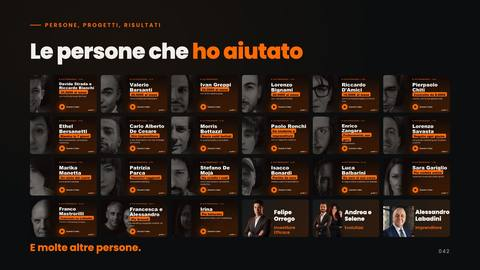
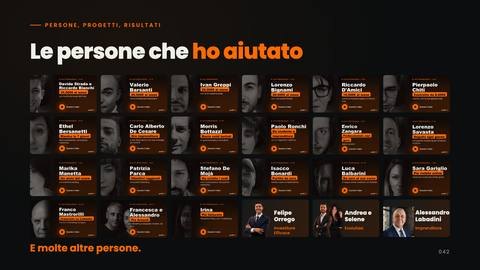
Regia slide: foto nuova di Felipe Orrego (slide 42, 52, 93) e anteprime aggiornate

diff --git a/regia-e07cyn87/slide.html b/regia-e07cyn87/slide.html
@@ -212,7 +212,7 @@ body.nocursor{cursor:none}
 <section class="s " id="s39"><div class="tag">2021 · Consulente High Ticket</div><div class="head"><h2 style="font-size:84px">Ho ricominciato<br><span class="o">costruendo un’azienda mia.</span></h2></div><img src="img/logo-consulente-high-ticket.webp" style="position:absolute;left:120px;top:405px;width:320px;height:auto"><div class="col" style="left:120px;top:560px;width:900px"><div class="stat" style="font-size:215px">500K€</div><div class="lead strong" style="font-size:42px">nei primi sei mesi</div></div><div class="col" style="left:1110px;top:465px;width:670px"><div class="stat" style="font-size:195px">400+</div><div class="lead strong" style="font-size:42px">clienti seguiti</div><div class="lead" style="font-size:34px;margin-top:35px">Coach, consulenti e professionisti.<br>Dalle ore vendute<br>ai pacchetti ad alto valore.</div></div><div class="pg">039</div></section>
 <section class="s " id="s40"><div class="tag">Quello che ho portato nel mercato</div><div class="head"><h2 style="font-size:83px">Modelli che oggi riconosci.<br><span class="o">Un lavoro iniziato prima di CHT.</span></h2><div class="lead" style="font-size:36px">Dal setting al percorso del cliente, fino all’organizzazione commerciale.<br>Consulente High Ticket li porta dentro una metodologia B2B.</div></div><div class="steps" style="grid-template-columns:repeat(3,1fr)"><div class="card"><div class="n" style="font-size:120px">01</div><div class="t" style="font-size:40px">Appointment setting · dal 2018</div><i class="arrow"></i></div><div class="card"><div class="n" style="font-size:120px">02</div><div class="t" style="font-size:40px">Community funnel · 2021</div><i class="arrow"></i></div><div class="card hi"><div class="n" style="font-size:120px">03</div><div class="t" style="font-size:40px">CRM e outreach strutturato</div></div></div><div class="pg">040</div></section>
 <section class="s " id="s41"><div class="tag">Formazione e aziende digitali</div><div class="head"><h2 style="font-size:76px">Progetti diversi.<br><span class="o">Lo stesso lavoro dentro il business.</span></h2></div><div style="position:absolute;left:120px;right:120px;top:385px;display:grid;grid-template-columns:repeat(5,1fr);gap:22px;z-index:2"><div style="height:170px;display:flex;flex-direction:column;align-items:center;justify-content:center;gap:16px;background:#101415;border:1px solid #263032;border-radius:22px;padding:20px"><img src="img/mono-king-seduction.webp" style="max-width:230px;max-height:80px;object-fit:contain"><div style="font-size:21px;color:#bdbdb6">King Seduction</div></div><div style="height:170px;display:flex;flex-direction:column;align-items:center;justify-content:center;gap:16px;background:#101415;border:1px solid #263032;border-radius:22px;padding:20px"><img src="img/mono-investitore-efficace.webp" style="max-width:230px;max-height:80px;object-fit:contain"><div style="font-size:21px;color:#bdbdb6">Investitore Efficace</div></div><div style="height:170px;display:flex;flex-direction:column;align-items:center;justify-content:center;gap:16px;background:#101415;border:1px solid #263032;border-radius:22px;padding:20px"><img src="img/mono-studente-felice.webp" style="max-width:230px;max-height:80px;object-fit:contain"><div style="font-size:21px;color:#bdbdb6">Studente Felice</div></div><div style="height:170px;display:flex;flex-direction:column;align-items:center;justify-content:center;gap:16px;background:#101415;border:1px solid #263032;border-radius:22px;padding:20px"><img src="img/mono-rqi.webp" style="max-width:230px;max-height:80px;object-fit:contain"><div style="font-size:21px;color:#bdbdb6">RQI.me</div></div><div style="height:170px;display:flex;flex-direction:column;align-items:center;justify-content:center;gap:16px;background:#101415;border:1px solid #263032;border-radius:22px;padding:20px"><img src="img/mono-fabio-bussacchini.webp" style="max-width:230px;max-height:80px;object-fit:contain"><div style="font-size:21px;color:#bdbdb6">Fabio Bussacchini</div></div><div style="height:170px;display:flex;flex-direction:column;align-items:center;justify-content:center;gap:16px;background:#101415;border:1px solid #263032;border-radius:22px;padding:20px"><img src="img/mono-cama.webp" style="max-width:230px;max-height:80px;object-fit:contain"><div style="font-size:21px;color:#bdbdb6">CAMA · Accademia Marketing Digitale</div></div><div style="height:170px;display:flex;flex-direction:column;align-items:center;justify-content:center;gap:16px;background:#101415;border:1px solid #263032;border-radius:22px;padding:20px"><img src="img/mono-sistemilegali.webp" style="max-width:230px;max-height:80px;object-fit:contain"><div style="font-size:21px;color:#bdbdb6">SistemiLegali</div></div><div style="height:170px;display:flex;flex-direction:column;align-items:center;justify-content:center;gap:16px;background:#101415;border:1px solid #263032;border-radius:22px;padding:20px"><img src="img/mono-protocollo-anticrisi.webp" style="max-width:230px;max-height:80px;object-fit:contain"><div style="font-size:21px;color:#bdbdb6">Protocollo Anticrisi</div></div><div style="height:170px;display:flex;flex-direction:column;align-items:center;justify-content:center;gap:16px;background:#101415;border:1px solid #263032;border-radius:22px;padding:20px"><img src="img/mono-playlover-academy.webp" style="max-width:230px;max-height:80px;object-fit:contain"><div style="font-size:21px;color:#bdbdb6">PlayLover Academy</div></div><div style="height:170px;display:flex;flex-direction:column;align-items:center;justify-content:center;gap:16px;background:#101415;border:1px solid #263032;border-radius:22px;padding:20px"><img src="img/mono-sos-relazioni.webp" style="max-width:230px;max-height:80px;object-fit:contain"><div style="font-size:21px;color:#bdbdb6">SOS Relazioni</div></div><div style="height:170px;display:flex;flex-direction:column;align-items:center;justify-content:center;gap:16px;background:#101415;border:1px solid #263032;border-radius:22px;padding:20px"><img src="img/mono-zendiet.webp" style="max-width:230px;max-height:80px;object-fit:contain"><div style="font-size:21px;color:#bdbdb6">Zendiet</div></div><div style="height:170px;display:flex;flex-direction:column;align-items:center;justify-content:center;gap:16px;background:#101415;border:1px solid #263032;border-radius:22px;padding:20px"><img src="img/mono-lorenzo-savasta.webp" style="max-width:230px;max-height:80px;object-fit:contain"><div style="font-size:21px;color:#bdbdb6">Lorenzo Savasta</div></div><div style="height:170px;display:flex;flex-direction:column;align-items:center;justify-content:center;gap:16px;background:#101415;border:1px solid #263032;border-radius:22px;padding:20px"><img src="img/mono-the-vision.webp" style="max-width:230px;max-height:80px;object-fit:contain"><div style="font-size:21px;color:#bdbdb6">The Vision Academy</div></div><div style="height:170px;display:flex;flex-direction:column;align-items:center;justify-content:center;gap:16px;background:#101415;border:1px solid #263032;border-radius:22px;padding:20px"><div style="font-size:31px;font-weight:800;color:#F0F0E9">Samuele Ferrari</div></div><div style="height:170px;display:flex;flex-direction:column;align-items:center;justify-content:center;gap:16px;background:#101415;border:1px solid #263032;border-radius:22px;padding:20px"><img src="img/mono-metodo-immobiliare.webp" style="max-width:230px;max-height:80px;object-fit:contain"><div style="font-size:21px;color:#bdbdb6">Metodo Immobiliare</div></div></div><div class="pg">041</div></section>
-<section class="s " id="s42"><div class="tag">Persone, progetti, risultati</div><div class="head"><h2 style="font-size:86px">Le persone che <span class="o">ho aiutato</span></h2></div><div style="position:absolute;left:120px;right:120px;top:300px;display:grid;grid-template-columns:repeat(6,1fr);gap:16px;z-index:2"><img src="img/testimonianze/n06.webp" style="width:100%;height:auto;aspect-ratio:16/9;object-fit:contain;border-radius:10px"><img src="img/testimonianze/n03.webp" style="width:100%;height:auto;aspect-ratio:16/9;object-fit:contain;border-radius:10px"><img src="img/testimonianze/n11.webp" style="width:100%;height:auto;aspect-ratio:16/9;object-fit:contain;border-radius:10px"><img src="img/testimonianze/n08.webp" style="width:100%;height:auto;aspect-ratio:16/9;object-fit:contain;border-radius:10px"><img src="img/testimonianze/n12.webp" style="width:100%;height:auto;aspect-ratio:16/9;object-fit:contain;border-radius:10px"><img src="img/testimonianze/n02.webp" style="width:100%;height:auto;aspect-ratio:16/9;object-fit:contain;border-radius:10px"><img src="img/testimonianze/n04.webp" style="width:100%;height:auto;aspect-ratio:16/9;object-fit:contain;border-radius:10px"><img src="img/testimonianze/n01.webp" style="width:100%;height:auto;aspect-ratio:16/9;object-fit:contain;border-radius:10px"><img src="img/testimonianze/n05.webp" style="width:100%;height:auto;aspect-ratio:16/9;object-fit:contain;border-radius:10px"><img src="img/testimonianze/n07.webp" style="width:100%;height:auto;aspect-ratio:16/9;object-fit:contain;border-radius:10px"><img src="img/testimonianze/n09.webp" style="width:100%;height:auto;aspect-ratio:16/9;object-fit:contain;border-radius:10px"><img src="img/testimonianze/n10.webp" style="width:100%;height:auto;aspect-ratio:16/9;object-fit:contain;border-radius:10px"><img src="img/testimonianze/n13.webp" style="width:100%;height:auto;aspect-ratio:16/9;object-fit:contain;border-radius:10px"><img src="img/testimonianze/n14.webp" style="width:100%;height:auto;aspect-ratio:16/9;object-fit:contain;border-radius:10px"><img src="img/testimonianze/n15.webp" style="width:100%;height:auto;aspect-ratio:16/9;object-fit:contain;border-radius:10px"><img src="img/testimonianze/n16.webp" style="width:100%;height:auto;aspect-ratio:16/9;object-fit:contain;border-radius:10px"><img src="img/testimonianze/y01.webp" style="width:100%;height:auto;aspect-ratio:16/9;object-fit:contain;border-radius:10px"><img src="img/testimonianze/y02.webp" style="width:100%;height:auto;aspect-ratio:16/9;object-fit:contain;border-radius:10px"><img src="img/testimonianze/y03.webp" style="width:100%;height:auto;aspect-ratio:16/9;object-fit:contain;border-radius:10px"><img src="img/testimonianze/y04.webp" style="width:100%;height:auto;aspect-ratio:16/9;object-fit:contain;border-radius:10px"><img src="img/testimonianze/y05.webp" style="width:100%;height:auto;aspect-ratio:16/9;object-fit:contain;border-radius:10px"><div style="aspect-ratio:16/9;position:relative;background:linear-gradient(120deg,#161a1b,#331b0d);border-radius:10px;overflow:hidden"><img src="img/felipe.webp" style="position:absolute;left:0;bottom:0;width:46%;height:100%;object-fit:contain;object-position:bottom"><div style="position:absolute;left:48%;right:5%;top:25%;font-size:23px;line-height:1.15;font-weight:800">Felipe Orrego<div style="font-size:16px;font-weight:500;color:#FF6A00;margin-top:14px">Investitore Efficace</div></div></div><div style="aspect-ratio:16/9;position:relative;background:linear-gradient(120deg,#161a1b,#331b0d);border-radius:10px;overflow:hidden"><img src="img/caso-evolutiaa.webp" style="position:absolute;left:0;bottom:0;width:46%;height:100%;object-fit:contain;object-position:bottom"><div style="position:absolute;left:48%;right:5%;top:25%;font-size:23px;line-height:1.15;font-weight:800">Andrea e Selene<div style="font-size:16px;font-weight:500;color:#FF6A00;margin-top:14px">Evolutiaa</div></div></div><div style="aspect-ratio:16/9;position:relative;background:linear-gradient(120deg,#161a1b,#331b0d);border-radius:10px;overflow:hidden"><img src="img/guest-labadini.webp" style="position:absolute;left:0;bottom:0;width:46%;height:100%;object-fit:contain;object-position:bottom"><div style="position:absolute;left:48%;right:5%;top:25%;font-size:23px;line-height:1.15;font-weight:800">Alessandro Labadini<div style="font-size:16px;font-weight:500;color:#FF6A00;margin-top:14px">Imprenditore</div></div></div></div><div style="position:absolute;left:120px;top:960px;font-size:40px;font-weight:700;color:#FF6A00;z-index:2">E molte altre persone.</div><div class="pg">042</div></section>
+<section class="s " id="s42"><div class="tag">Persone, progetti, risultati</div><div class="head"><h2 style="font-size:86px">Le persone che <span class="o">ho aiutato</span></h2></div><div style="position:absolute;left:120px;right:120px;top:300px;display:grid;grid-template-columns:repeat(6,1fr);gap:16px;z-index:2"><img src="img/testimonianze/n06.webp" style="width:100%;height:auto;aspect-ratio:16/9;object-fit:contain;border-radius:10px"><img src="img/testimonianze/n03.webp" style="width:100%;height:auto;aspect-ratio:16/9;object-fit:contain;border-radius:10px"><img src="img/testimonianze/n11.webp" style="width:100%;height:auto;aspect-ratio:16/9;object-fit:contain;border-radius:10px"><img src="img/testimonianze/n08.webp" style="width:100%;height:auto;aspect-ratio:16/9;object-fit:contain;border-radius:10px"><img src="img/testimonianze/n12.webp" style="width:100%;height:auto;aspect-ratio:16/9;object-fit:contain;border-radius:10px"><img src="img/testimonianze/n02.webp" style="width:100%;height:auto;aspect-ratio:16/9;object-fit:contain;border-radius:10px"><img src="img/testimonianze/n04.webp" style="width:100%;height:auto;aspect-ratio:16/9;object-fit:contain;border-radius:10px"><img src="img/testimonianze/n01.webp" style="width:100%;height:auto;aspect-ratio:16/9;object-fit:contain;border-radius:10px"><img src="img/testimonianze/n05.webp" style="width:100%;height:auto;aspect-ratio:16/9;object-fit:contain;border-radius:10px"><img src="img/testimonianze/n07.webp" style="width:100%;height:auto;aspect-ratio:16/9;object-fit:contain;border-radius:10px"><img src="img/testimonianze/n09.webp" style="width:100%;height:auto;aspect-ratio:16/9;object-fit:contain;border-radius:10px"><img src="img/testimonianze/n10.webp" style="width:100%;height:auto;aspect-ratio:16/9;object-fit:contain;border-radius:10px"><img src="img/testimonianze/n13.webp" style="width:100%;height:auto;aspect-ratio:16/9;object-fit:contain;border-radius:10px"><img src="img/testimonianze/n14.webp" style="width:100%;height:auto;aspect-ratio:16/9;object-fit:contain;border-radius:10px"><img src="img/testimonianze/n15.webp" style="width:100%;height:auto;aspect-ratio:16/9;object-fit:contain;border-radius:10px"><img src="img/testimonianze/n16.webp" style="width:100%;height:auto;aspect-ratio:16/9;object-fit:contain;border-radius:10px"><img src="img/testimonianze/y01.webp" style="width:100%;height:auto;aspect-ratio:16/9;object-fit:contain;border-radius:10px"><img src="img/testimonianze/y02.webp" style="width:100%;height:auto;aspect-ratio:16/9;object-fit:contain;border-radius:10px"><img src="img/testimonianze/y03.webp" style="width:100%;height:auto;aspect-ratio:16/9;object-fit:contain;border-radius:10px"><img src="img/testimonianze/y04.webp" style="width:100%;height:auto;aspect-ratio:16/9;object-fit:contain;border-radius:10px"><img src="img/testimonianze/y05.webp" style="width:100%;height:auto;aspect-ratio:16/9;object-fit:contain;border-radius:10px"><div style="aspect-ratio:16/9;position:relative;background:linear-gradient(120deg,#161a1b,#331b0d);border-radius:10px;overflow:hidden"><img src="img/felipe-nuova.webp" style="position:absolute;left:0;bottom:0;width:46%;height:100%;object-fit:contain;object-position:bottom"><div style="position:absolute;left:48%;right:5%;top:25%;font-size:23px;line-height:1.15;font-weight:800">Felipe Orrego<div style="font-size:16px;font-weight:500;color:#FF6A00;margin-top:14px">Investitore Efficace</div></div></div><div style="aspect-ratio:16/9;position:relative;background:linear-gradient(120deg,#161a1b,#331b0d);border-radius:10px;overflow:hidden"><img src="img/caso-evolutiaa.webp" style="position:absolute;left:0;bottom:0;width:46%;height:100%;object-fit:contain;object-position:bottom"><div style="position:absolute;left:48%;right:5%;top:25%;font-size:23px;line-height:1.15;font-weight:800">Andrea e Selene<div style="font-size:16px;font-weight:500;color:#FF6A00;margin-top:14px">Evolutiaa</div></div></div><div style="aspect-ratio:16/9;position:relative;background:linear-gradient(120deg,#161a1b,#331b0d);border-radius:10px;overflow:hidden"><img src="img/guest-labadini.webp" style="position:absolute;left:0;bottom:0;width:46%;height:100%;object-fit:contain;object-position:bottom"><div style="position:absolute;left:48%;right:5%;top:25%;font-size:23px;line-height:1.15;font-weight:800">Alessandro Labadini<div style="font-size:16px;font-weight:500;color:#FF6A00;margin-top:14px">Imprenditore</div></div></div></div><div style="position:absolute;left:120px;top:960px;font-size:40px;font-weight:700;color:#FF6A00;z-index:2">E molte altre persone.</div><div class="pg">042</div></section>
 <section class="s " id="s43"><div class="ph full" style="background-image:url(img/andrea-ricaduta-ai.png)"></div><div class="shade-l"></div><div class="tag">Un’altra ricaduta</div><div class="col" style="left:120px;top:270px;width:1000px"><h2 style="font-size:54px">Pensavo di aver costruito.<br><span class="o">Mi sono ritrovato a ricominciare.</span></h2><div class="lead" style="font-size:40px;line-height:1.4;margin-top:48px">Il socio aveva replicato il business che avevamo costruito insieme.</div></div><div class="lead" style="position:absolute;left:120px;top:975px;width:1680px;font-size:20px;margin:0;z-index:2">Ricostruzione illustrativa AI</div><div class="pg">043</div></section>
 <section class="s " id="s44"><div class="tag">La lezione di quella ricaduta</div><div class="head"><h2 style="font-size:84px">Ho capito che cosa<br><span class="o">dovevo proteggere.</span></h2><div class="lead" style="font-size:35px">Un business può essere copiato. La sua solidità va costruita anche dentro.</div></div><div class="steps" style="grid-template-columns:repeat(3,1fr)"><div class="card"><div class="n" style="font-size:120px">01</div><div class="t" style="font-size:40px">Know-how e asset</div><i class="arrow"></i></div><div class="card"><div class="n" style="font-size:120px">02</div><div class="t" style="font-size:40px">Team e responsabilità</div><i class="arrow"></i></div><div class="card hi"><div class="n" style="font-size:120px">03</div><div class="t" style="font-size:40px">Processi che restano</div></div></div><div class="pg">044</div></section>
 <section class="s " id="s45"><div class="head"><h2 style="font-size:76px">Il lavoro diventa esperienza condivisa</h2></div><div class="gal"><figure><img src="img/0537d1be59.png" style="height:583px;width:1037px"><figcaption>Evolutiaa Reborn / sul palco</figcaption></figure><figure><img src="img/afee76bb54.png" style="height:583px;width:583px"><figcaption>Formazione e confronto dal vivo</figcaption></figure></div><div class="pg">045</div></section>
@@ -226,7 +226,7 @@ body.nocursor{cursor:none}
 <section class="s " id="s49"><div class="tag">Digital Product Mastery</div><div class="head"><h2 style="font-size:84px">Nel 2023, un nuovo progetto.<br><span class="o">Con Mik Cosentino.</span></h2></div><div class="lead" style="position:absolute;left:120px;top:410px;width:1680px;font-size:39px;margin:0;z-index:2">Digital Product Mastery</div><div class="col" style="left:120px;top:490px;width:1020px"><div class="stat" style="font-size:245px">500K€+</div><div class="lead strong" style="font-size:42px">nei primi sei mesi</div></div><div class="lead" style="position:absolute;left:1260px;top:570px;width:550px;font-size:39px;margin:0;z-index:2">Monetizzare il mondo dell’AI.<br>Costruire e vendere<br>un’offerta sul mercato.</div><div class="pg">049</div></section>
 <section class="s " id="s50"><div class="tag">Il lavoro dietro le quinte</div><div class="head"><h2 style="font-size:84px">Investimenti. Trading.<br><span class="o">Immobiliare. Agenzie.</span></h2><div class="lead" style="font-size:35px">Offerta, acquisizione, vendita e organizzazione dentro aziende diverse.</div></div><div class="steps" style="grid-template-columns:repeat(3,1fr)"><div class="card"><div class="n" style="font-size:120px">01</div><div class="t" style="font-size:40px">Offerte e posizionamento</div><i class="arrow"></i></div><div class="card"><div class="n" style="font-size:120px">02</div><div class="t" style="font-size:40px">Acquisizione e vendita</div><i class="arrow"></i></div><div class="card hi"><div class="n" style="font-size:120px">03</div><div class="t" style="font-size:40px">Team e procedure</div></div></div><div class="lead" style="position:absolute;left:120px;top:930px;width:1680px;font-size:28px;margin:0;z-index:2">Founder, socio, COO, CMO e partner operativo: ruoli diversi nei diversi progetti.</div><div class="pg">050</div></section>
 <section class="s " id="s51"><div class="tag">Sales Valley</div><div class="head" style="right:auto;width:1070px"><h2 style="font-size:78px">Dalle lezioni imparate<br><span class="o">a una nuova azienda.</span></h2></div><div class="lead" style="position:absolute;left:120px;top:370px;width:1050px;font-size:32px;margin:0;z-index:2">Hiring di sales e setter per il mercato B2B.</div><div class="stat" style="position:absolute;left:120px;top:470px;width:1050px;font-size:230px;margin:0;z-index:2">100+</div><div class="lead strong" style="position:absolute;left:120px;top:705px;width:1050px;font-size:44px;margin:0;z-index:2">clienti B2B</div><div class="lead" style="position:absolute;left:120px;top:825px;width:1050px;font-size:28px;margin:0;z-index:2">Clienti corporate</div><div class="lead strong" style="position:absolute;left:120px;top:875px;width:1050px;font-size:37px;margin:0;z-index:2">Verisure · Eolo<br>Union Energia</div><img src="img/25327b8593.png" style="position:absolute;right:35px;bottom:0;width:670px;height:900px;object-fit:contain;object-position:bottom;z-index:2"><div class="pg">051</div></section>
-<section class="s " id="s52"><div class="tag">Investitore Efficace · Felipe Orrego</div><div class="head" style="right:auto;width:1070px"><h2 style="font-size:78px">Da un’idea<br><span class="o">a un’azienda da 4 milioni.</span></h2></div><div class="lead" style="position:absolute;left:120px;top:370px;width:1050px;font-size:32px;margin:0;z-index:2">Sono entrato nel board di Investitore Efficace.</div><div class="stat" style="position:absolute;left:120px;top:470px;width:1050px;font-size:230px;margin:0;z-index:2">≈4M€</div><div class="lead strong" style="position:absolute;left:120px;top:715px;width:1050px;font-size:39px;margin:0;z-index:2">fatturato dell’azienda nel 2025</div><div class="lead" style="position:absolute;left:120px;top:865px;width:1050px;font-size:31px;margin:0;z-index:2">Brand e community funnel. Acquisizione e vendita.<br>Procedure e organizzazione.</div><img src="img/69e697662e.png" style="position:absolute;right:35px;bottom:0;width:670px;height:900px;object-fit:contain;object-position:bottom;z-index:2"><div class="pg">052</div></section>
+<section class="s " id="s52"><div class="tag">Investitore Efficace · Felipe Orrego</div><div class="head" style="right:auto;width:1070px"><h2 style="font-size:78px">Da un’idea<br><span class="o">a un’azienda da 4 milioni.</span></h2></div><div class="lead" style="position:absolute;left:120px;top:370px;width:1050px;font-size:32px;margin:0;z-index:2">Sono entrato nel board di Investitore Efficace.</div><div class="stat" style="position:absolute;left:120px;top:470px;width:1050px;font-size:230px;margin:0;z-index:2">≈4M€</div><div class="lead strong" style="position:absolute;left:120px;top:715px;width:1050px;font-size:39px;margin:0;z-index:2">fatturato dell’azienda nel 2025</div><div class="lead" style="position:absolute;left:120px;top:865px;width:1050px;font-size:31px;margin:0;z-index:2">Brand e community funnel. Acquisizione e vendita.<br>Procedure e organizzazione.</div><img src="img/felipe-nuova.png" style="position:absolute;right:35px;bottom:0;width:670px;height:900px;object-fit:contain;object-position:bottom;z-index:2"><div class="pg">052</div></section>
 <section class="s " id="s53"><div class="tag">Evolutiaa · Finotti e Barletta</div><div class="head" style="right:auto;width:1070px"><h2 style="font-size:78px">La crescita diventa<br><span class="o">un’azienda strutturata.</span></h2></div><div class="stat" style="position:absolute;left:120px;top:450px;width:1120px;font-size:150px;margin:0;z-index:2">6K → 35K€+</div><div class="lead strong" style="position:absolute;left:120px;top:635px;width:1050px;font-size:39px;margin:0;z-index:2">di fatturato mensile, in tre mesi</div><div class="lead" style="position:absolute;left:120px;top:820px;width:1050px;font-size:42px;margin:0;z-index:2">Team. Procedure.<br>KPI e lanci.</div><img src="img/84859a0da2.png" style="position:absolute;right:35px;bottom:0;width:690px;height:900px;object-fit:contain;object-position:bottom;z-index:2"><div class="pg">053</div></section>
 <section class="s " id="s54"><div class="tag">ProfitOS · Il progetto di cui parliamo stasera</div><div class="head"><h2 style="font-size:84px">Con ProfitOS,<br><span class="o">la prima cavia sono stato io.</span></h2></div><div class="col" style="left:120px;top:410px;width:1680px"><div class="stat" style="font-size:270px">100K€+</div><div class="lead strong" style="font-size:46px">incassati in un mese</div></div><div class="pills" style="bottom:150px"><span>4 persone nel team</span><span>3 part-time</span></div><div class="pg">054</div></section>
 <section class="s " id="s55"><div class="tag">Perché ho fondato ProfitOS</div><div class="head"><h2 style="font-size:80px">Far crescere un’azienda.<br><span class="o">Partecipare al valore che costruisco.</span></h2><div class="lead" style="font-size:35px">Dalle esperienze operative a un modello orientato anche alle partecipazioni.</div></div><div class="steps" style="grid-template-columns:repeat(3,1fr)"><div class="card"><div class="n" style="font-size:120px">01</div><div class="t" style="font-size:40px">Contribuire alla crescita</div><i class="arrow"></i></div><div class="card"><div class="n" style="font-size:120px">02</div><div class="t" style="font-size:40px">Costruire un sistema</div><i class="arrow"></i></div><div class="card hi"><div class="n" style="font-size:120px">03</div><div class="t" style="font-size:40px">Valutare una partecipazione</div></div></div><div class="pg">055</div></section>
@@ -291,7 +291,7 @@ body.nocursor{cursor:none}
 <section class="s " id="s90"><div class="tag">L’ordine giusto</div><div class="head"><h2 style="font-size:84px">Prima la struttura.<br><span class="o">Poi la visibilità.</span></h2></div><div class="pyr" style="top:366px"><div class="lyr top" style="width:520px">Riconoscibilità</div><div class="lyr" style="width:750px">Processi</div><div class="lyr" style="width:980px">Acquisizione e vendita</div><div class="lyr" style="width:1210px">Offerta</div><div class="lyr" style="width:1440px">Domanda e capacità di consegna</div></div><div class="foot" style="text-align:center;left:0;right:0">Si costruisce dal basso: domanda e consegna, offerta, acquisizione e vendita, processi. Poi la riconoscibilità.</div><div class="pg">090</div></section>
 <section class="s " id="s91"><div class="tag">L’ordine giusto</div><div class="head"><h2 style="font-size:84px">La visibilità amplifica<br><span class="o">quello che c’è sotto.</span></h2></div><div class="pyr" style="top:366px"><div class="lyr top" style="width:520px">Personal brand</div><div class="lyr" style="width:750px">Processi</div><div class="lyr" style="width:980px">Acquisizione e vendita</div><div class="lyr" style="width:1210px">Offerta, margine e delivery</div><div class="lyr" style="width:1440px">Problema reale del cliente</div></div><div class="foot" style="text-align:center;left:0;right:0">La visibilità arriva sopra una struttura che regge.</div><div class="pg">091</div></section>
 <section class="s " id="s92"><div class="head"><h2 style="font-size:80px">Il contenuto non può<br><span class="o">risolvere ogni problema.</span></h2></div><div class="steps" style="grid-template-columns:repeat(4,1fr)"><div class="card"><div class="n" style="font-size:120px">01</div><div class="t" style="font-size:36px">Non ti scoprono<br>→ acquisizione</div><i class="arrow"></i></div><div class="card"><div class="n" style="font-size:120px">02</div><div class="t" style="font-size:36px">Non chiedono<br>→ passaggio</div><i class="arrow"></i></div><div class="card"><div class="n" style="font-size:120px">03</div><div class="t" style="font-size:36px">Non comprano<br>→ offerta/vendita</div><i class="arrow"></i></div><div class="card hi"><div class="n" style="font-size:120px">04</div><div class="t" style="font-size:36px">Non reggi<br>→ delivery</div></div></div><div class="pg">092</div></section>
-<section class="s " id="s93"><div class="tag">Ospite</div><div class="col" style="left:120px;width:1000px;top:170px"><h2 style="font-size:52px">Un’azienda prima di un personaggio</h2><div class="gname">Felipe Orrego</div><div class="grole">Investitore Efficace</div><div class="gpts"><div><b>01</b>Offerta e cliente</div><div><b>02</b>Acquisizione e vendita</div><div><b>03</b>Team e procedure</div></div></div><div class="glow" style="right:0"></div><img src="img/69e697662e.png" style="position:absolute;bottom:0;right:120px;height:900px;width:689px;z-index:1"><div class="why">Perché ora: un’azienda può crescere prima del personaggio.</div><div class="pg">093</div></section>
+<section class="s " id="s93"><div class="tag">Ospite</div><div class="col" style="left:120px;width:1000px;top:170px"><h2 style="font-size:52px">Un’azienda prima di un personaggio</h2><div class="gname">Felipe Orrego</div><div class="grole">Investitore Efficace</div><div class="gpts"><div><b>01</b>Offerta e cliente</div><div><b>02</b>Acquisizione e vendita</div><div><b>03</b>Team e procedure</div></div></div><div class="glow" style="right:0"></div><img src="img/felipe-nuova.png" style="position:absolute;bottom:0;right:120px;height:900px;width:689px;z-index:1"><div class="why">Perché ora: un’azienda può crescere prima del personaggio.</div><div class="pg">093</div></section>
 <section class="s " id="s94"><div class="ph full" style="background-image:url(img/07086a6de2.jpg);background-position:65% 50%"></div><div class="shade-l"></div><div class="tag">Primo Segreto</div><div class="herot"><h2 style="font-size:69px">UN’OFFERTA CHE SI SCEGLIE</h2><div class="lead" style="font-size:40px">Rendi chiaro il motivo per cui comprare da te.</div></div><div class="pg">094</div></section>
 <section class="s " id="s95"><div class="head"><h2 style="font-size:80px">La tua competenza<br><span class="o">non è ancora un’offerta.</span></h2></div><div class="steps" style="bottom:366px;grid-template-columns:repeat(3,1fr)"><div class="card"><div class="n" style="font-size:120px">01</div><div class="t" style="font-size:40px">Etichetta professionale</div><i class="arrow"></i></div><div class="card"><div class="n" style="font-size:120px">02</div><div class="t" style="font-size:40px">Problema del cliente</div><i class="arrow"></i></div><div class="card hi"><div class="n" style="font-size:120px">03</div><div class="t" style="font-size:40px">Lavoro acquistabile</div></div></div><div class="foot"><div>“Sono un consulente.”<br>“Mi occupo di marketing.”<br>“Aiuto le persone a migliorare.”</div></div><div class="pg">095</div></section>
 <section class="s " id="s96"><div class="head"><h2 style="font-size:80px">Il cliente compra<br><span class="o">un cambiamento riconoscibile.</span></h2><div class="lead" style="font-size:36px">Deve capire che cosa cambia nella sua situazione se sceglie te.</div></div><div class="steps" style="grid-template-columns:repeat(3,1fr)"><div class="card"><div class="n" style="font-size:120px">01</div><div class="t" style="font-size:40px">Situazione iniziale</div><i class="arrow"></i></div><div class="card"><div class="n" style="font-size:120px">02</div><div class="t" style="font-size:40px">Intervento concreto</div><i class="arrow"></i></div><div class="card hi"><div class="n" style="font-size:120px">03</div><div class="t" style="font-size:40px">Cambiamento riconoscibile</div></div></div><div class="pg">096</div></section>
